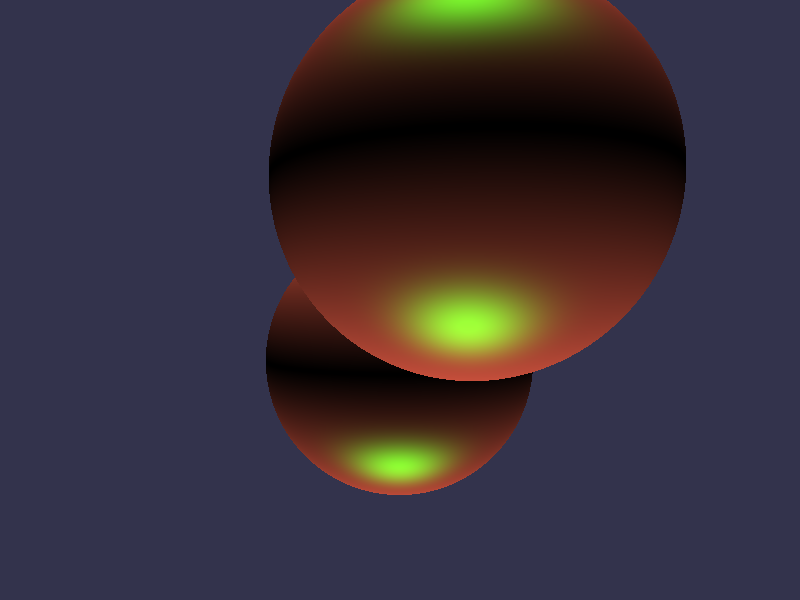
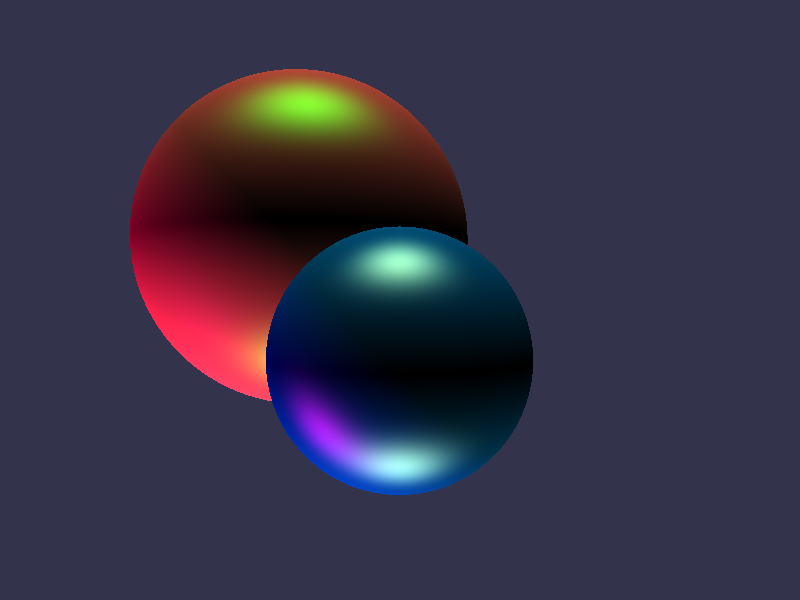
Add additional point light

diff --git a/VCG_Raytracer/src/Main.java b/VCG_Raytracer/src/Main.java
@@ -70,14 +70,16 @@ public class Main {
     public static void setupScene(Scene renderScene){
         renderScene.createPerspCamera(CAM_POS, LOOK_AT, UP_VECTOR, VIEW_ANGLE, FOCAL_LENGTH, IMAGE_WIDTH, IMAGE_HEIGHT);
 
-        Material sphereMaterial = new Material(AMBIENT_COLOR, new RgbColor(1.0f,0.4f,0.4f), new RgbColor(0.1f,1.0f,0.1f), 10, Material.PHONG);
+        Material sphereMaterial1 = new Material(AMBIENT_COLOR, new RgbColor(1.0f,0.4f,0.4f), new RgbColor(0.1f,1.0f,0.1f), 10, Material.PHONG);
+        Material sphereMaterial2 = new Material(AMBIENT_COLOR, new RgbColor(0.0f,0.4f,0.8f), new RgbColor(0.8f,1.0f,0.8f), 10, Material.PHONG);
 
-        renderScene.createSphere(new Vec3(0, -0.5f, 0), sphereMaterial, 1f);
-        renderScene.createSphere(new Vec3(0.6f, 1.0f, -0.05f), sphereMaterial, 1.0f);
+        renderScene.createSphere(new Vec3(-0.8f, 0.5f, 0), sphereMaterial1, 1f);
+        renderScene.createSphere(new Vec3(0f, -0.5f, 0f), sphereMaterial2, 1f);
 
 
         renderScene.createPointLight(new Vec3( 0, 200, 0 ), new RgbColor(0.8f, 0.8f, 0.6f));
         renderScene.createPointLight(new Vec3( 0, -200, 0 ), new RgbColor(0.8f, 0.8f, 0.6f));
+        renderScene.createPointLight(new Vec3( -200, -200, 0 ), new RgbColor(0.8f, 0.0f, 0.6f));
     }
 
     public static void raytraceScene(Window renderWindow, Scene renderScene){

diff --git a/VCG_Raytracer/src/scene/Light.java b/VCG_Raytracer/src/scene/Light.java
@@ -14,8 +14,8 @@ public class Light extends SceneObject {
 
     public Light(Vec3 pos, RgbColor color) {
         super(pos);
-        Log.print(this, "Init with color " + mColor);
         mColor = color;
+        Log.print(this, "Init with color " + mColor);
     }
 
 
